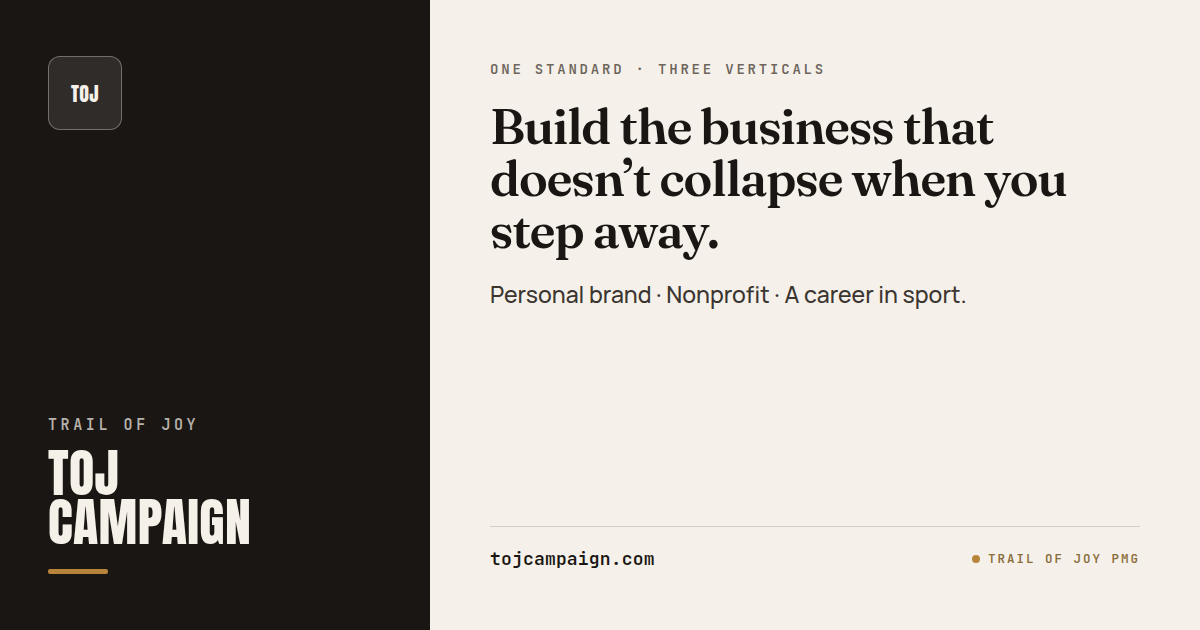
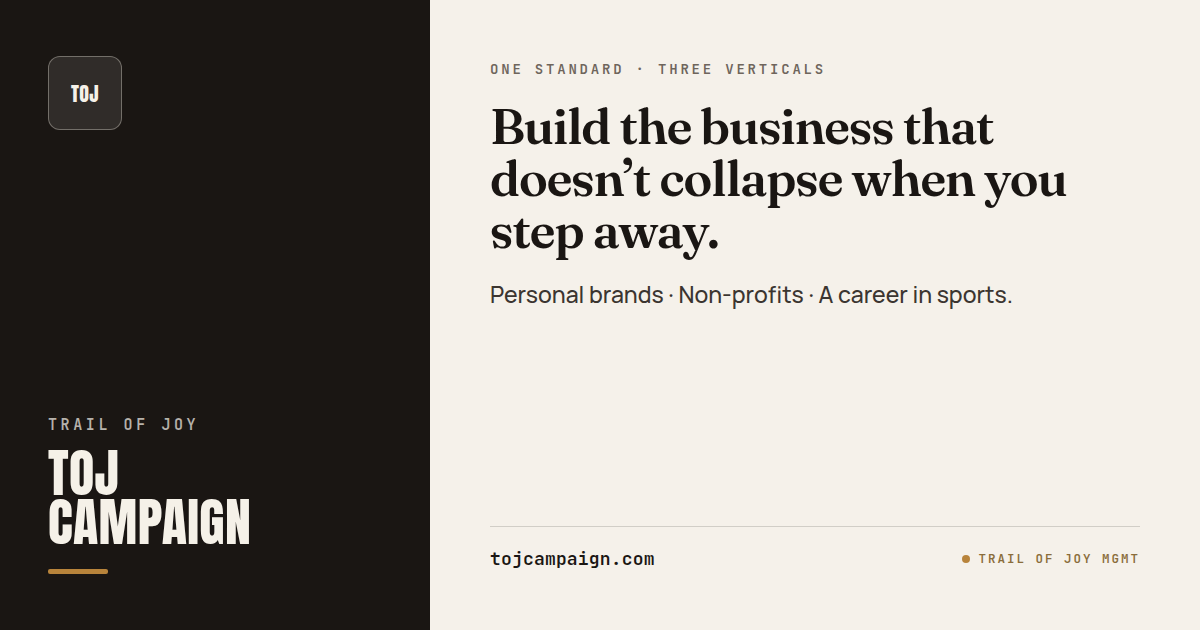
Copy corrections: OG subhead, Pylon→Tournament Circuits, stale terms
Small-detail QA pass across the live site:

- OG master card subhead: "Personal brand · Nonprofit · A career in
  sport." → "Personal brands · Non-profits · A career in sports."
- OG master footer tag "TRAIL OF JOY PMG" → "TRAIL OF JOY MGMT" (P was
  Player, dropped in the rename).
- Replace all four "Pylon 7v7" client references with "Tournament
  Circuits" (index, personal-brand, nonprofit, authority).
- how-we-work.html Discovery phase listed the OLD five-pillar taxonomy
  (Brand, Delivery, Retention, Financial, Demand) — corrected to the
  canonical set (Brand Identity, Operational Health, Revenue
  Architecture, Content & Credibility, Growth Readiness).
- Retire three leftover "avenue" references → "vertical" (how-we-work
  heading + phase-02 note, client.html portal notice).
- patterns.html: "Player Transcript" → "Operational Transcript" (the
  canonical artifact name used everywhere else).
- Personal Brand intake: "CRM / GHL account" → "CRM / booking software"
  (GHL is internal jargon the solo-operator audience won't recognize).

Claude-Session: https://claude.ai/code/session_014U7muz24M9Xn9QE6g4zCBB

Changed region(s): [[0.5242, 0.4524, 0.8325, 0.4825], [0.8017, 0.8746, 0.9558, 0.9048]]

diff --git a/public/how-we-work.html b/public/how-we-work.html
@@ -92,18 +92,18 @@
 
   <section>
     <div class="eyebrow">The 7-phase learning loop</div>
-    <h2>Seven phases. One standard. Every avenue.</h2>
+    <h2>Seven phases. One standard. Every vertical.</h2>
     <div class="phases">
       <div class="phase"><div class="num">01</div><div>
         <div class="sub">Discovery</div><h3>Assess where you actually are.</h3>
-        <p>We baseline your five pillars &mdash; Brand, Delivery, Retention, Financial, Demand &mdash; the same way NWEA MAP baselines a student. No guesswork. No inflated scores. Just a starting line you can trust.</p>
+        <p>We baseline your five pillars &mdash; Brand Identity, Operational Health, Revenue Architecture, Content &amp; Credibility, Growth Readiness &mdash; the same way NWEA MAP baselines a student. No guesswork. No inflated scores. Just a starting line you can trust.</p>
         <div class="what"><strong>You leave with:</strong> a pillar-by-pillar radar of your operation and a named bottleneck.</div>
       </div></div>
 
       <div class="phase"><div class="num">02</div><div>
         <div class="sub">Provision</div><h3>Set the environment before we teach.</h3>
         <p>Tools, accounts, brand kit, workspace, and the working canvas. Before phase three, everything you need to actually do the work is already sitting on the desk.</p>
-        <div class="what"><strong>You leave with:</strong> a provisioned environment mapped to your avenue.</div>
+        <div class="what"><strong>You leave with:</strong> a provisioned environment mapped to your vertical.</div>
       </div></div>
 
       <div class="phase"><div class="num">03</div><div>

diff --git a/public/authority.html b/public/authority.html
@@ -168,7 +168,7 @@
             that lets families trust you before the season starts &mdash; and lets the
             next tier of coaches trust the pipeline you send them.
           </p>
-          <div class="proof-tag">Pylon 7v7</div>
+          <div class="proof-tag">Tournament Circuits</div>
           <div class="proof-tag">~1,500 club program database</div>
           <a href="/foundation-score-authority.html" class="cta">Get your Foundation Score &rarr;</a>
         </div>

diff --git a/public/client.html b/public/client.html
@@ -87,7 +87,7 @@
 
       <div class="notice" id="note" style="display:none;">
         <strong>Portal setup underway.</strong> The client portal is being provisioned for
-        each avenue&rsquo;s deployment. If you&rsquo;re an existing TOJ client and need to
+        each vertical&rsquo;s deployment. If you&rsquo;re an existing TOJ client and need to
         access your environment right now, reach out at
         <a href="mailto:[email redacted]" style="color:var(--sports);font-weight:600;">[email redacted]</a>.
       </div>

diff --git a/public/foundation-score-personal-brand.html b/public/foundation-score-personal-brand.html
@@ -441,7 +441,7 @@ footer{background:var(--ink);color:var(--paper);padding:36px 0 24px}
             <label class="check-item"><input type="checkbox" value="testimonials"><span>Written testimonials</span></label>
             <label class="check-item"><input type="checkbox" value="photos"><span>Professional photos</span></label>
             <label class="check-item"><input type="checkbox" value="videos"><span>Video content</span></label>
-            <label class="check-item"><input type="checkbox" value="crm"><span>CRM / GHL account</span></label>
+            <label class="check-item"><input type="checkbox" value="crm"><span>CRM / booking software</span></label>
             <label class="check-item"><input type="checkbox" value="referral_flow"><span>A repeatable referral rhythm</span></label>
           </div>
         </div>

diff --git a/public/index.html b/public/index.html
@@ -965,7 +965,7 @@
       <div class="eyebrow">The systems in the field</div>
       <h4>The operating systems behind TOJ Campaign are already in use with active clients across youth sport, creator work, and independent operators.</h4>
       <div class="creds-list">
-        <span>Pylon 7v7</span>
+        <span>Tournament Circuits</span>
         <span class="sep">&middot;</span>
         <span>Powerlifting Coach</span>
         <span class="sep">&middot;</span>

diff --git a/public/nonprofit.html b/public/nonprofit.html
@@ -322,7 +322,7 @@
       <div class="eyebrow">The operator&rsquo;s field</div>
       <h4>The same operating systems that support Authority clients power our nonprofit engagements &mdash; documented, repeatable, and built to survive turnover.</h4>
       <div class="creds-list">
-        <span>Pylon 7v7</span>
+        <span>Tournament Circuits</span>
         <span class="sep">&middot;</span>
         <span>SubjectReport portal</span>
         <span class="sep">&middot;</span>

diff --git a/public/patterns.html b/public/patterns.html
@@ -136,7 +136,7 @@
       <h2>The offer sheet that closes fast is the one <em>already documented</em>.</h2>
       <p>
         Two athletes at the same position tier, same GPA, similar film. One had a
-        Player Transcript, an on-file Prospect Edge grading, and a SubjectReport drop
+        Operational Transcript, an on-file Prospect Edge grading, and a SubjectReport drop
         from the prior season. The other had a highlight reel and a coach&rsquo;s email.
       </p>
       <p>

diff --git a/public/personal-brand.html b/public/personal-brand.html
@@ -350,7 +350,7 @@
         <span class="sep">&middot;</span>
         <span>Optimum Grading</span>
         <span class="sep">&middot;</span>
-        <span>Pylon 7v7</span>
+        <span>Tournament Circuits</span>
       </div>
     </div>
   </div>